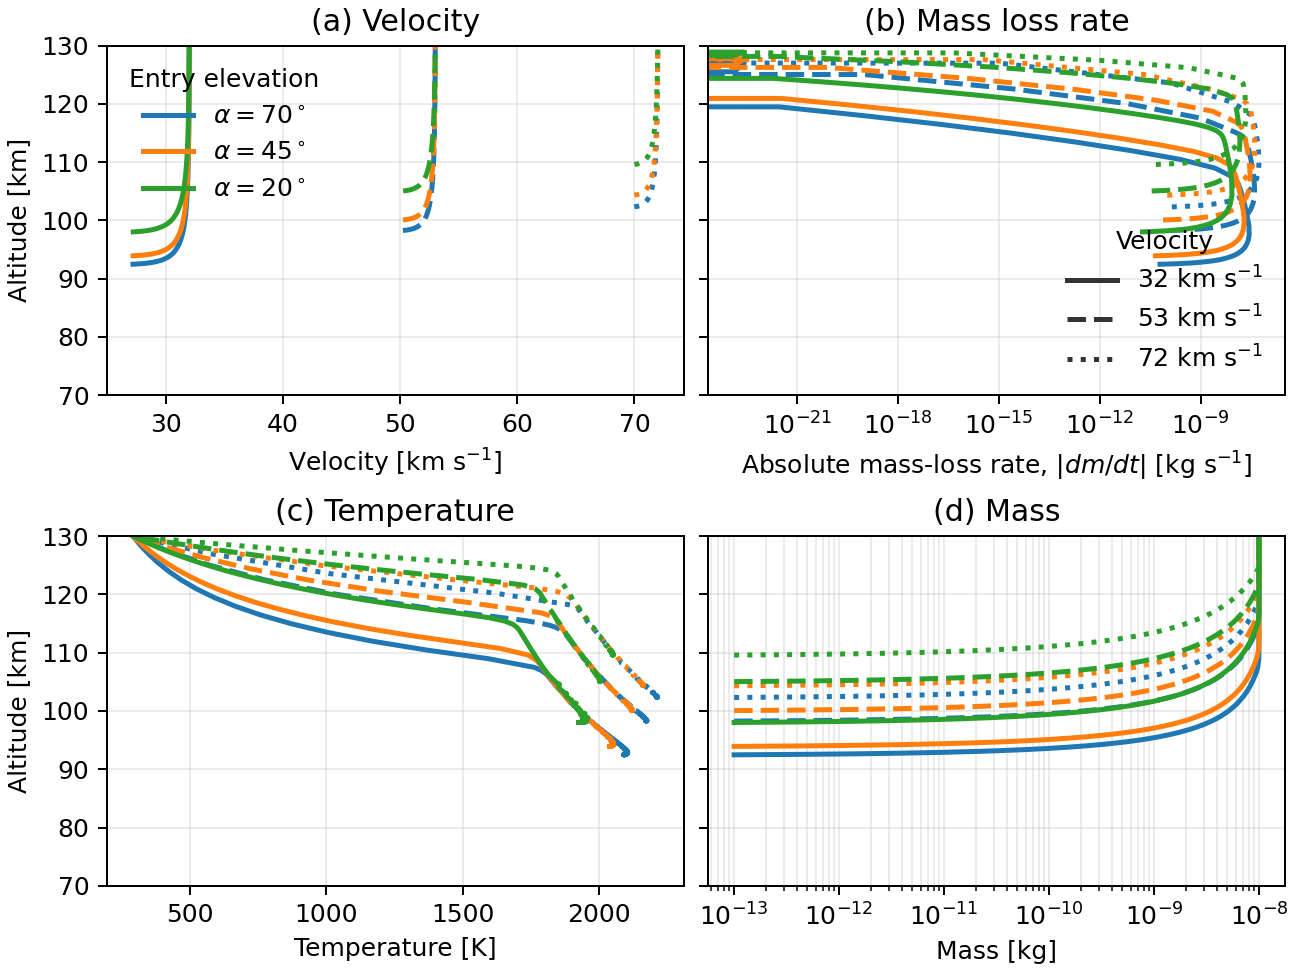
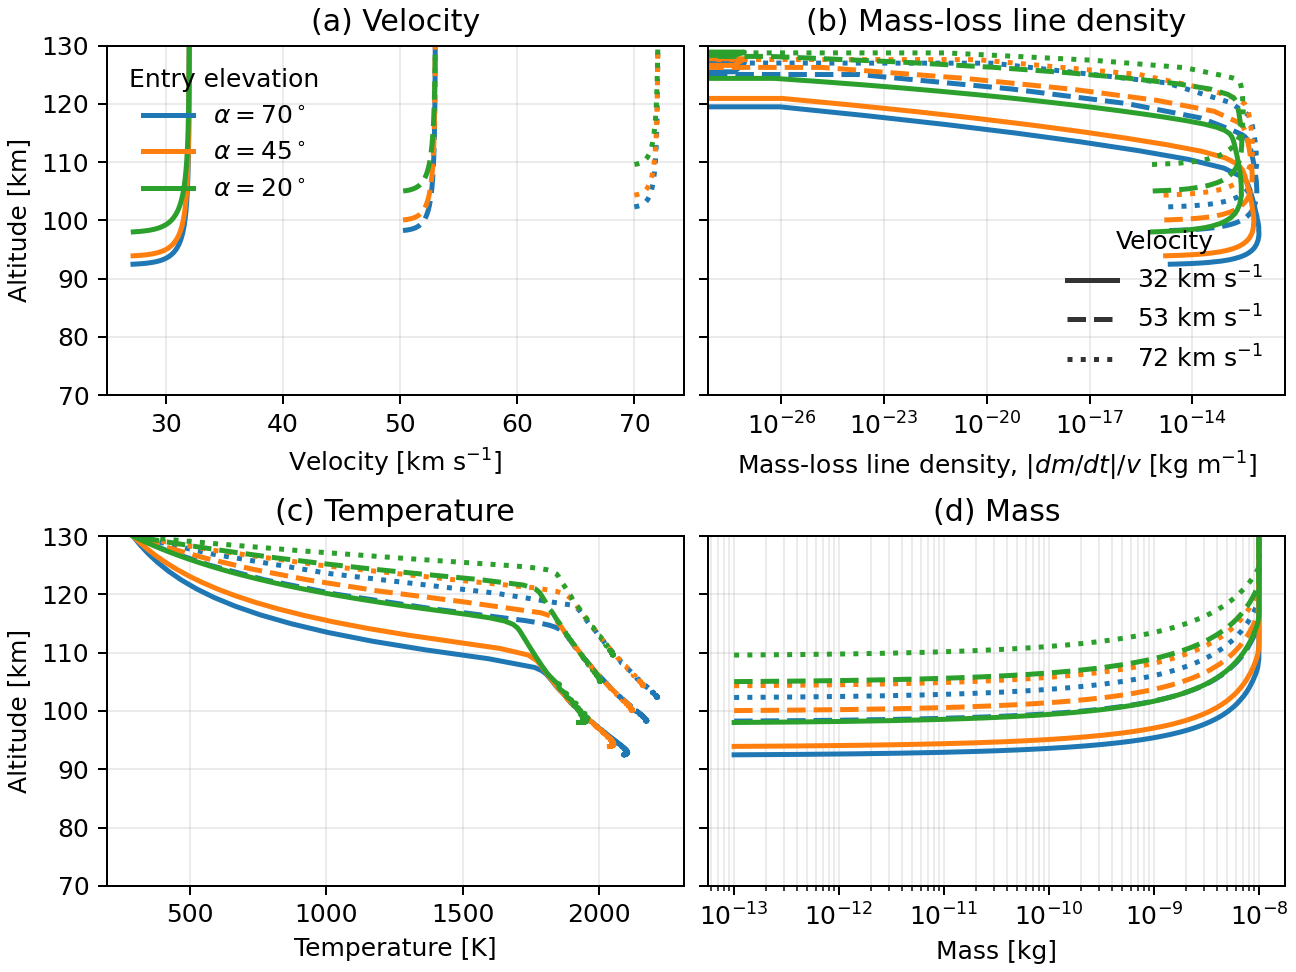
Rename ablation sweep example

Changed region(s): [[0.5556, 0.0, 0.9877, 0.2778], [0.5556, 0.4012, 0.9877, 0.4938], [0.8333, 0.4012, 0.8642, 0.4321]]

diff --git a/docs/examples/ablation_sweep.py b/docs/examples/ablation_sweep.py
@@ -77,11 +77,13 @@ def run_case(model, material_data, velocity_km_s, entry_elevation_angle_deg):
     order = np.argsort(altitude_km)
     mass_loss_rate = np.abs(np.gradient(result.mass.values, result.t, edge_order=1))
     mass_loss_rate[~np.isfinite(mass_loss_rate)] = np.nan
+    mass_loss_line_density = mass_loss_rate / result.velocity.values
+    mass_loss_line_density[~np.isfinite(mass_loss_line_density)] = np.nan
 
     return {
         "altitude_km": altitude_km[order],
         "velocity_km_s": result.velocity.values[order] * 1e-3,
-        "mass_loss_rate_kg_s": mass_loss_rate[order],
+        "mass_loss_line_density_kg_m": mass_loss_line_density[order],
         "temperature_k": result.temperature.values[order],
         "mass_kg": result.mass.values[order],
     }
@@ -121,9 +123,9 @@ def make_figure():
         (0, "velocity_km_s", "Velocity [km s$^{-1}$]", "(a) Velocity", False),
         (
             1,
-            "mass_loss_rate_kg_s",
-            r"Absolute mass-loss rate, $|dm/dt|$ [kg s$^{-1}$]",
-            "(b) Mass loss rate",
+            "mass_loss_line_density_kg_m",
+            r"Mass-loss line density, $|dm/dt|/v$ [kg m$^{-1}$]",
+            "(b) Mass-loss line density",
             True,
         ),
         (2, "temperature_k", "Temperature [K]", "(c) Temperature", False),

diff --git a/README.md b/README.md
@@ -6,7 +6,7 @@
     pip install ablate
 ```
 
-## Minimal Kero-Szasz example
+## Minimal micrometeoroid ablation model example
 
 The example below runs the built-in `AtmPymsis` atmosphere with the
 `KeroSzasz2008` ablation model and recreates a compact sweep over entry
@@ -15,7 +15,7 @@ elevation angle and velocity.
 ![Kero-Szasz ablation sweep](docs/assets/kero_figure1_example.png)
 
 ```bash
-python docs/examples/kero_figure1.py --output docs/assets/kero_figure1_example.png
+python docs/examples/ablation_sweep.py --output docs/assets/kero_figure1_example.png
 ```
 
 The core setup is:
